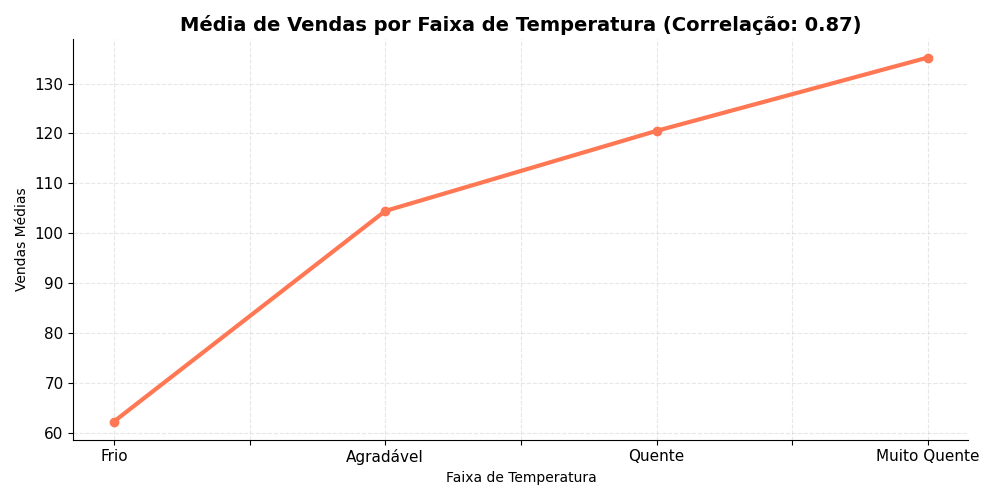
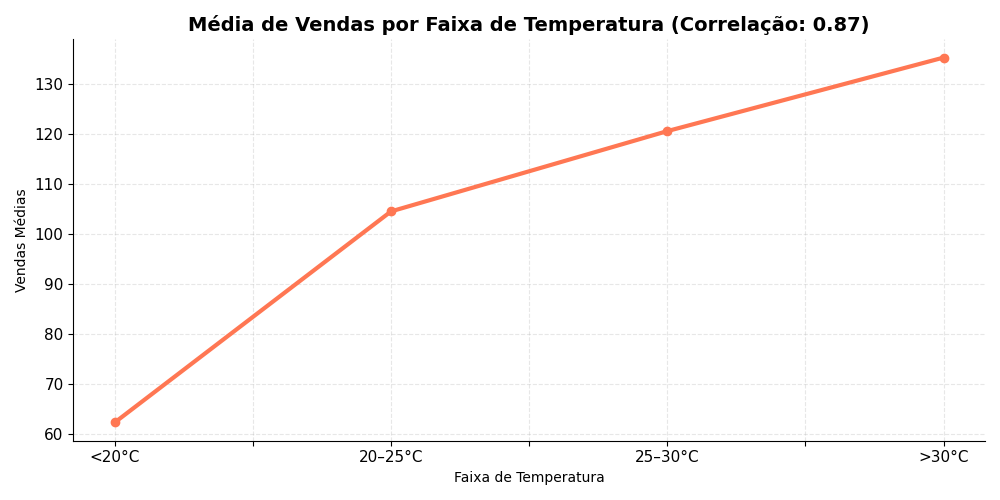
update

diff --git a/main.py b/main.py
@@ -20,10 +20,13 @@ df_merged = pd.merge(df_vendas, df_clima, on=["data", "cidade"])
 
 # Faixas de temperatura
 df_merged["faixa_temp"] = pd.cut(
-    df_merged["temperatura_media"],
+    df_merged["temperatura_media"], 
     bins=[0, 20, 25, 30, 40],
-    labels=["Frio", "Agradável", "Quente", "Muito Quente"]
+    labels=["<20°C", "20–25°C", "25–30°C", ">30°C"]
 )
+
+# Exportar para CSV (com a nova coluna)
+df_merged.to_csv("C:/Users/Lucas Soares/Documents/Tudo Vira Dados/Codigos/vendas-vs-clima/vendas-vs-clima/data/dados_completos.csv", index=False)
 
 # Gráfico 1 – Média de Vendas por Faixa
 media_por_faixa = df_merged.groupby("faixa_temp", observed=False)["vendas"].mean()
